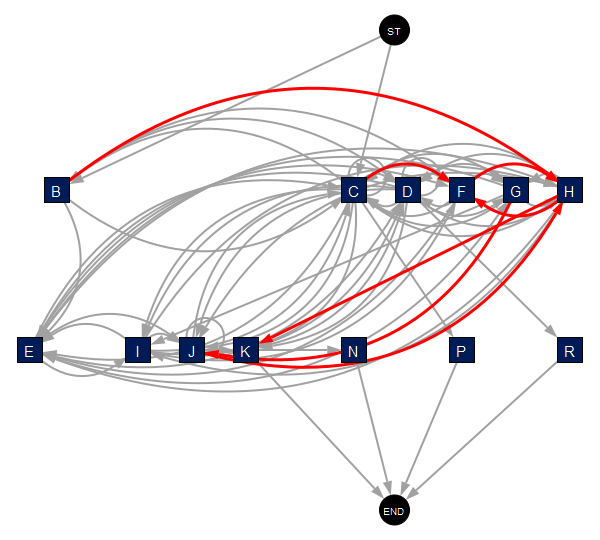
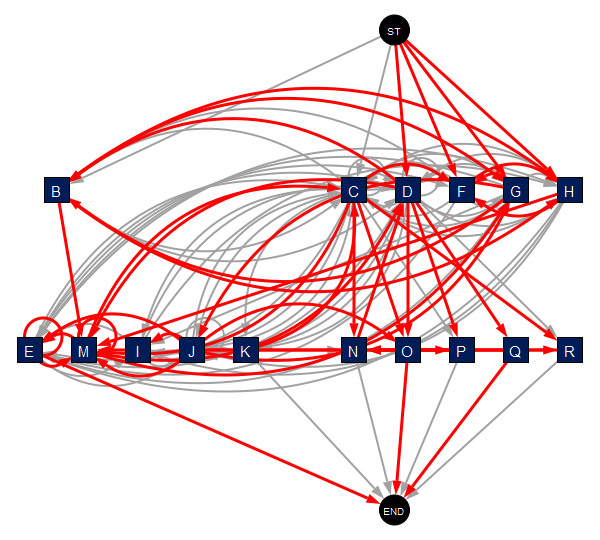
update graph view

diff --git a/proj/templates/test.html b/proj/templates/test.html
@@ -197,7 +197,7 @@
 <!--                    </div>-->
                     <div class="card" style="margin-bottom:5px;">
                     <div class="header bg-black" style="padding-top: 15px; padding-bottom: 15px;" align="center">
-                        <h2><strong>CLUSTER {{ c2 }}</strong></h2>
+                        <h2><strong>CLUSTER 5,7</strong></h2>
                     </div>
                         <div class="body" style="padding: 15px;">
                             <div  class="" align="center"><img src="../static/graphs/g2.png" alt="" width='75%'> </div>

diff --git a/proj/controllers/graphsconstr.py b/proj/controllers/graphsconstr.py
@@ -22,7 +22,6 @@ def rotulo(n):
 def get_vertices(df, seq_df_colname='Sequence'):
     df['act seq'] = df[seq_df_colname].apply(lambda x: x.split(' '))
     verts = {i: act for i, act in enumerate(df['act seq'].explode().dropna().drop_duplicates())}
-    print(verts)
     vertices = {i: rotulo(i) for i in verts.keys()}
 
     vertices[get_key('Start_Process', verts)] = 'ST'
@@ -87,7 +86,6 @@ def view_config(g, vertices, edges_ids):
     laylist = list(g.layout_reingold_tilford(root=get_key('ST', vertices)))
     laylist[get_key('END', vertices)][0] = 0.0
     laylist[get_key('END', vertices)][1] += 1.0
-    print(laylist)
     layout = laylist
     # (17, 3), (3, 4), (4, 7), (7, 5), (5, 10), (10, 9), (9, 2), (2, 1), (1, 1), (1, 2), (2, 9), (9, 10), (10, 11), (11, 16), (16, 6), (3, 5), (5, 4), (4, 8)
 
@@ -99,9 +97,19 @@ def createimgtrans(c1, c2, nome):
     result['Sequence'] = result['Sequence'].apply(lambda x: 'Start_Process ' + x + ' End_Process')
     vertices, verts = get_vertices(result)
 
+    # comparando varios clusters:
+    resconcat = pd.concat([result[result.cluster == 5], result[result.cluster == 7]], axis=0, ignore_index=True)
+    if c1 == '0':
+        _, edges_ids2 = get_edges(resconcat, verts, vertices)
+        edges_labels, edges_ids = get_edges(result[result.cluster == int(c1)], verts, vertices)
+    else:
+        _, edges_ids2 = get_edges(result[result.cluster == int(c1)], verts, vertices)
+        edges_labels, edges_ids = get_edges(resconcat, verts, vertices)
+
+
     # recebendo as diferenças entre o cluster c1 e o cluster c2. Lista do que tem em c1 que não tem em c2
     diffes = [(get_key(i, vertices), get_key(j, vertices)) for i, j in
-              get_diffs(result, int(c1), int(c2), verts, vertices)]
+              set(get_diffs(result, int(c1), 3, verts, vertices)+get_diffs(result, int(c1), 4, verts, vertices))]
 
     _, edlog_ids = get_edges(result, verts, vertices)
     edges_labels, edges_ids = get_edges(result[result.cluster == int(c1)], verts, vertices)
@@ -135,21 +143,28 @@ def get_diff_cluster(vertices, edges_ids, edges_ids2):
     return [i for i in dif2 if i not in dif1 and vertices[i] != 'ST' and vertices[i] != 'END']
 
 
-def createimgativs(c1, c2, nome):
+def createimgativs(c1, c2, nome): #c2 são dois clusters
     result = default.pdirectory[default.datafilter['arq']].copy()
     result['Sequence'] = result['Sequence'].apply(lambda x: 'Start_Process ' + x + ' End_Process')
     vertices, verts = get_vertices(result)
     _, edlog_ids = get_edges(result, verts, vertices)
 
-    edges_labels, edges_ids = get_edges(result[result.cluster == int(c1)], verts, vertices)
-    _, edges_ids2 = get_edges(result[result.cluster == int(c2)], verts, vertices)
+    print(vertices)
+    # comparando varios clusters:
+    resconcat = pd.concat([result[result.cluster == 5], result[result.cluster == 7]], axis=0, ignore_index=True)
+    if c1 == '0':
+        _, edges_ids2 = get_edges(resconcat, verts, vertices)
+        edges_labels, edges_ids = get_edges(result[result.cluster == int(c1)], verts, vertices)
+    else:
+        _, edges_ids2 = get_edges(result[result.cluster == int(c1)], verts, vertices)
+        edges_labels, edges_ids = get_edges(resconcat, verts, vertices)
+
     # order_edges(edges_ids, vertices, edges_labels)
     g = get_graph(vertices, list(set(edlog_ids) - set(edges_ids)) + edges_ids)
     g.es['color'] = ['white' if edge.tuple not in [(get_key(i, vertices), get_key(j, vertices)) for i, j in
                                                    edges_labels] else 'black' for edge in g.es]
 
     diffclus = get_diff_cluster(vertices, edges_ids, edges_ids2)  # procura atividades que tem em C2, mas não tem em C1
-    print(diffclus)
     atcolor = ['black' if vertices[n] == 'ST' or vertices[n] == 'END' else '#f0a202' if n in diffclus and nome == "g1"
     else '#f27cc9' if n in diffclus and nome == "g2" else '#001c57' for n in vertices.keys()]
 
@@ -160,5 +175,4 @@ def createimgativs(c1, c2, nome):
     plot(g, layout=layout, vertex_shape=shapev, vertex_label_color=lcolor, vertex_size=sizev, edge_width=2,
          margin=[30, 30, 30, 30], vertex_label_size=sizel, vertex_color=atcolor, bbox=(600, 540), keep_aspect_ratio=False,
          target='proj/static/graphs/' + nome + '.png')
-
     return vsub, diffclus

diff --git a/proj/controllers/default.py b/proj/controllers/default.py
@@ -48,6 +48,7 @@ def test():
 
         c1 = filterchoice.combobx.data
         c2 = filterchoice.combobx2.data
+
         if c1 != -1 and c2 != -1:
             imageboost = True
             if filterchoice.radialcircle.data == 'activ':  # exibindo atividades
